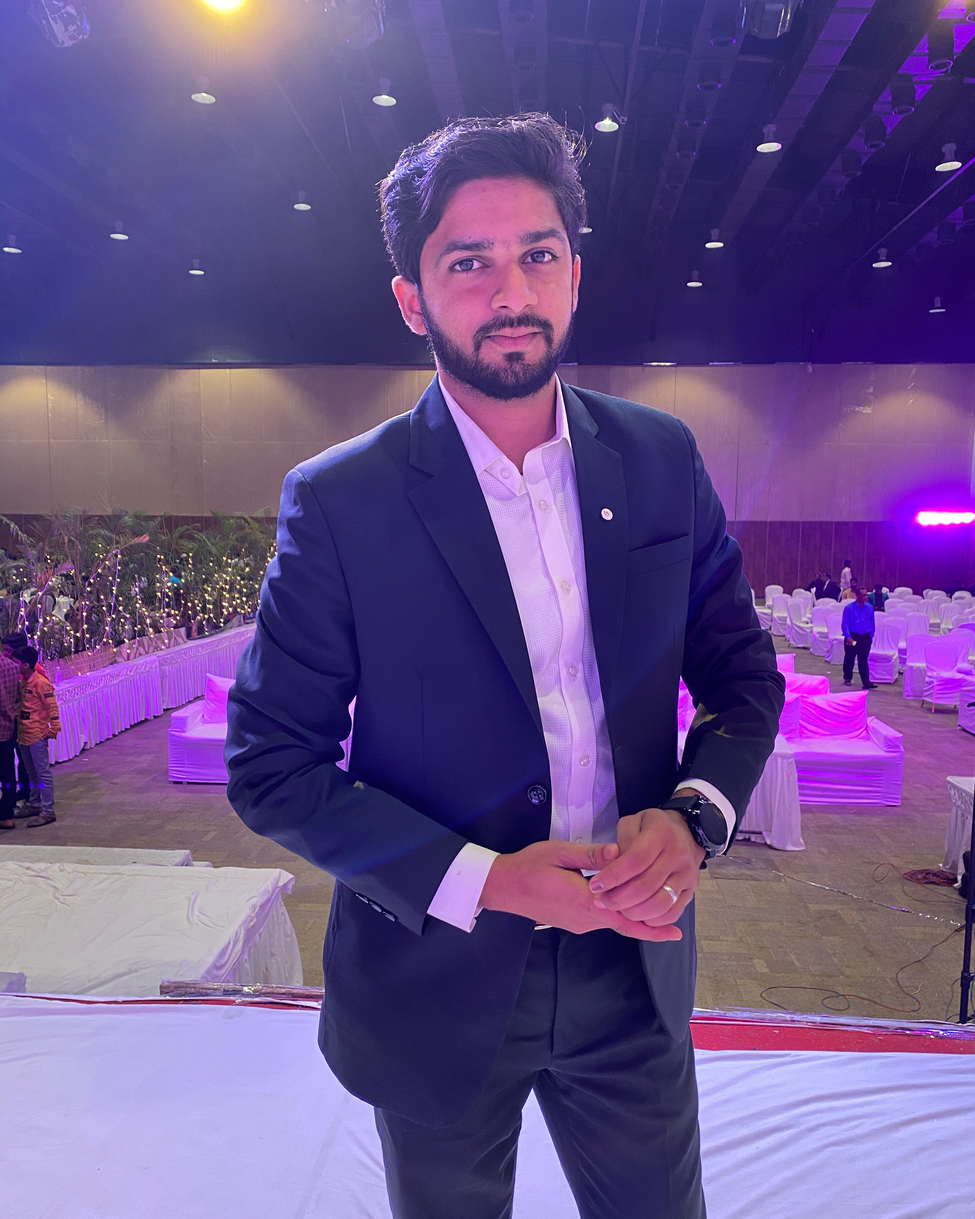
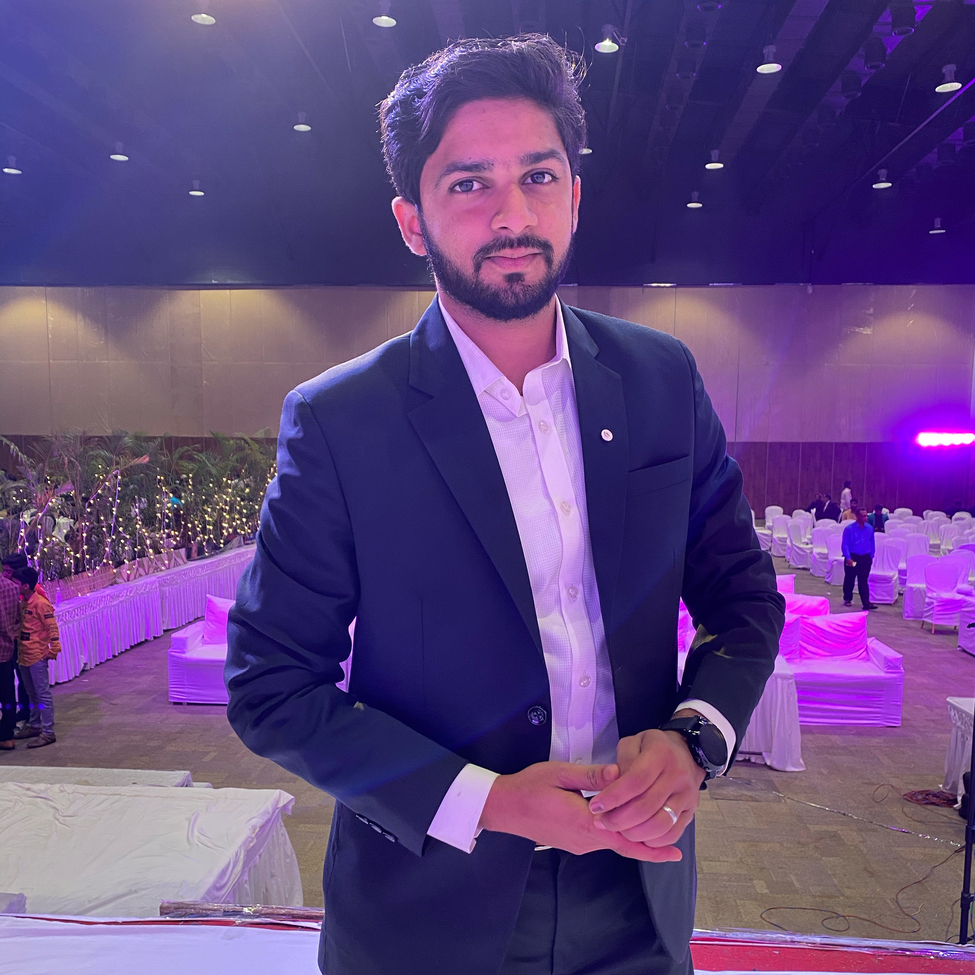
hall council image rescale

diff --git a/src/components/Sections/Team.jsx b/src/components/Sections/Team.jsx
@@ -2,7 +2,7 @@
 
 import React from 'react';
 import warden3 from '../../assets/img/Wardens/Husney Parvez.jpeg'
-import warden2 from '../../assets/img/Wardens/Sourav Mondal.jpg'
+import warden2 from '../../assets/img/Wardens/Koustuv Ray.jpg'
 import warden1 from '../../assets/img/Wardens/Tapan-Nath.jpg'
 import Fade from 'react-reveal/Fade'
 import '../../style/index.css'
@@ -44,7 +44,7 @@ const Team = () => {
                 <div className="card" style={cardStyle}>
                   <img src={warden2} className="card-img-top" alt="football"/>
                   <div className="card-body">
-                    <h5 className="card-title"><a href="https://media.licdn.com/dms/image/C4E03AQEcyaA7qOrkPg/profile-displayphoto-shrink_800_800/0/1654894641595?e=2147483647&v=beta&t=f-AajPCYb80uJnxX9YYymmD1NKulcpcXLcaKVjgTgDE" target="_blank" rel="noreferrer">Prof. Koustuv Ray</a></h5>
+                    <h5 className="card-title"><a href="http://www.iitkgp.ac.in/department/CH/faculty/ch-koustuv" target="_blank" rel="noreferrer">Prof. Koustuv Ray</a></h5>
                     <p className = "card-text text-muted"><strong>Assistant Warden</strong></p>
                     <p className = "card-text text-muted">Professor</p>
                     <p className = "card-text text-muted">Chemical Engineering</p>

diff --git a/src/assets/gallery.js b/src/assets/gallery.js
@@ -274,11 +274,11 @@ export const albums = {
         width: 1.5,
         height: 1,
       },
-      {
-        src: require("./img/Recent Events/RepublicDay2023/1 (55).jpg").default,
-        width: 1.5,
-        height: 1,
-      },
+      // {
+      //   src: require("./img/Recent Events/RepublicDay2023/1 (55).jpg").default,
+      //   width: 1.5,
+      //   height: 1,
+      // },
       {
         src: require("./img/Recent Events/RepublicDay2023/1 (56).jpg").default,
         width: 1.5,
